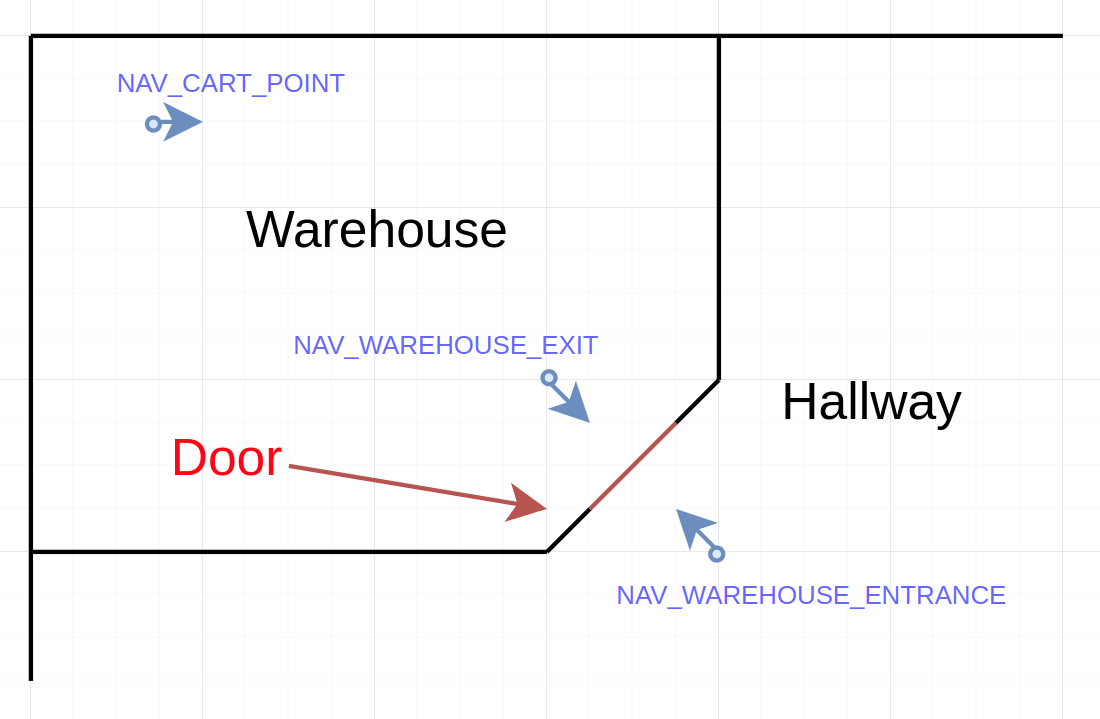
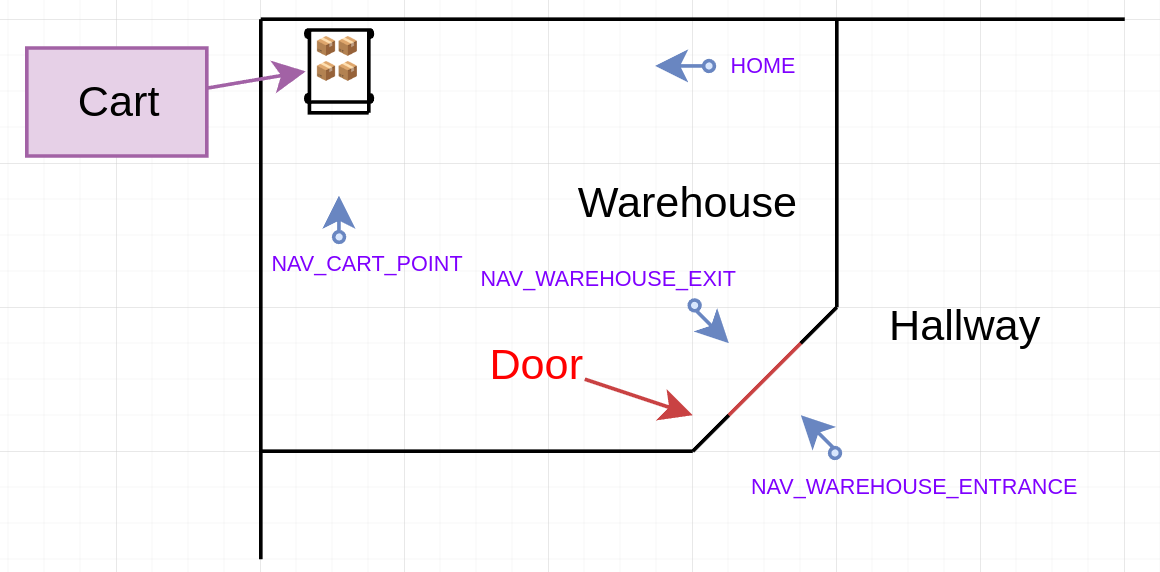
:pencil: update README.md

Changed region(s): [[0.0, 0.0297, 0.9891, 0.9808], [0.6491, 0.6241, 0.68, 0.6836]]

diff --git a/README.md b/README.md
@@ -19,7 +19,7 @@ Optimize hospital logistics with our delivery app. Automate item transportation,
 
     * `NAV_WAREHOUSE_EXIT`: Just in front of the door, INSIDE the warehouse, and facing the door.
 
-    * `NAV_HOME_POSITION_NAME`: Location name saved in the map where the robot will start and finish the app. This point should be close to the docking station.
+    * `HOME`: Location name saved in the map where the robot will start and finish the app.
 
 ![alt text](/doc/img/nav_points.png)
 
